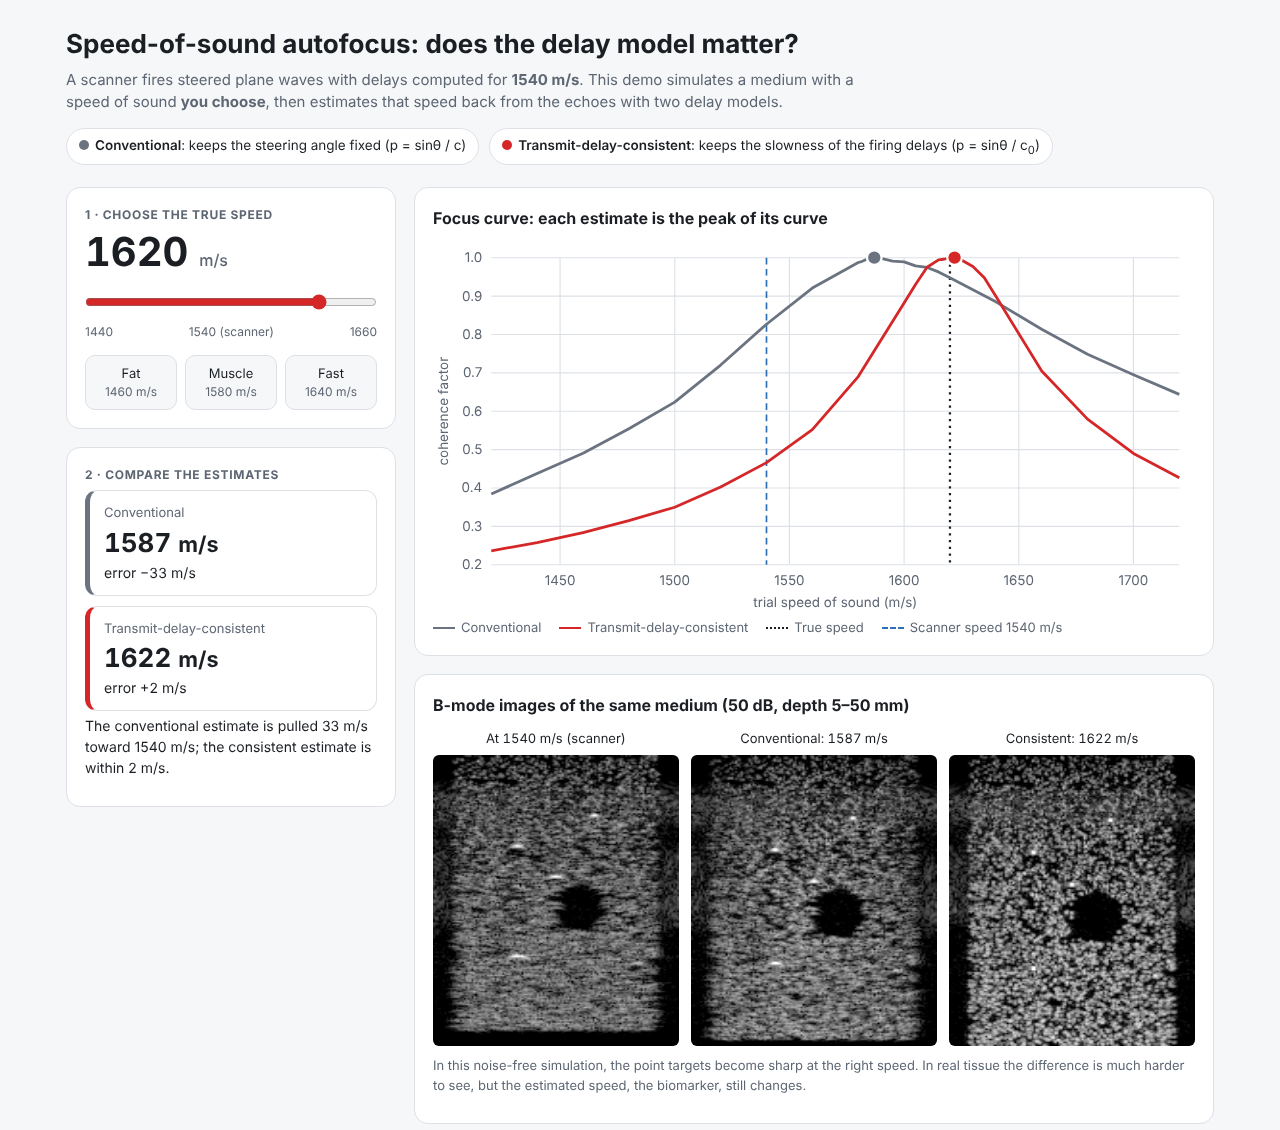
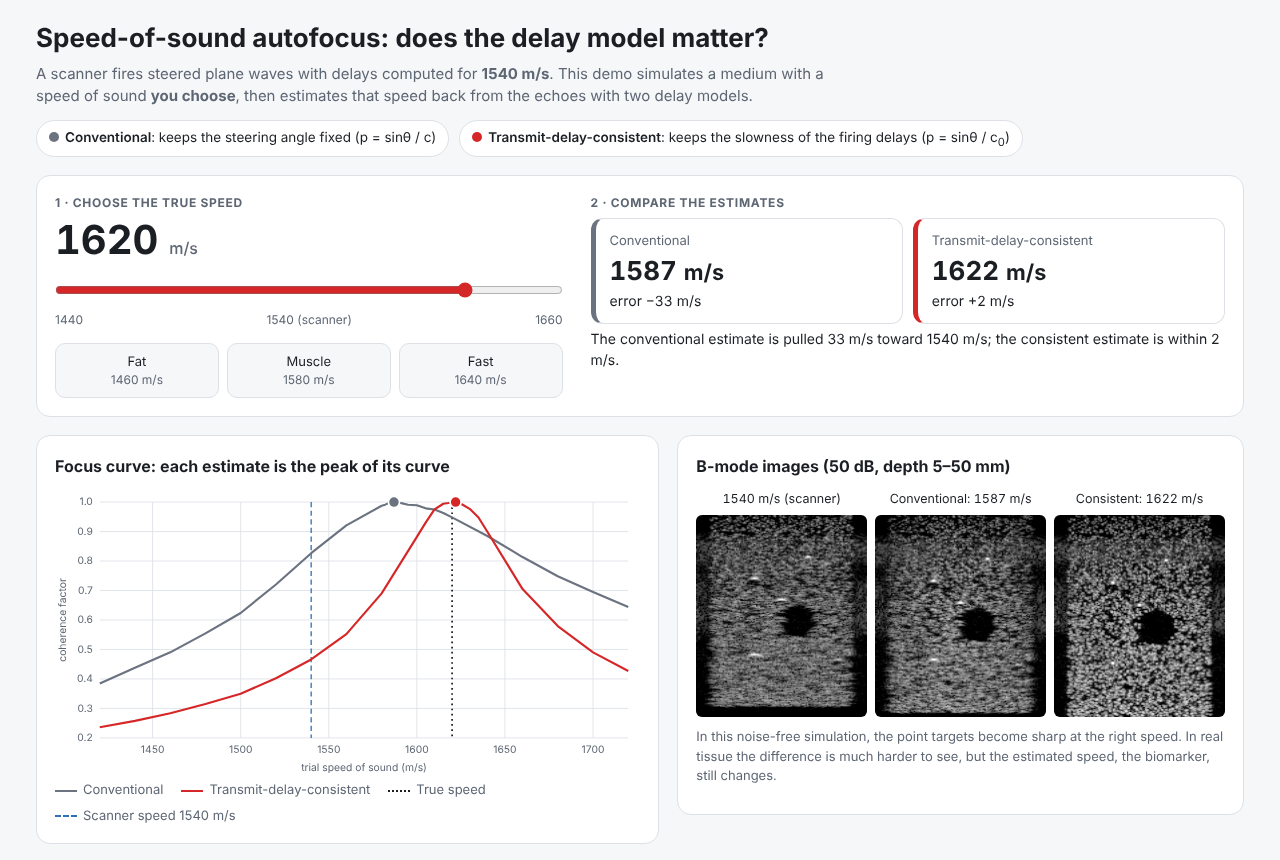
Refinement

diff --git a/demo/page_template.html b/demo/page_template.html
@@ -18,17 +18,19 @@
 * { box-sizing: border-box; }
 body { margin: 0; background: var(--bg); color: var(--ink);
   font: 15px/1.5 system-ui, -apple-system, "Segoe UI", Roboto, sans-serif; }
-.wrap { max-width: 1180px; margin: 0 auto; padding: 28px 16px 40px; }
+.wrap { max-width: 1240px; margin: 0 auto; padding: 22px 16px 40px; }
 h1 { font-size: 26px; line-height: 1.25; margin: 0 0 8px; }
 h2 { font-size: 16px; margin: 0 0 12px; }
 p { margin: 0 0 10px; }
 .lead { color: var(--muted); max-width: 820px; }
-.models { display: flex; gap: 10px; flex-wrap: wrap; margin: 14px 0 22px; }
+.models { display: flex; gap: 10px; flex-wrap: wrap; margin: 12px 0 18px; }
 .chip { border: 1px solid var(--line); background: var(--card); border-radius: 999px; padding: 6px 12px; font-size: 13.5px; }
 .chip b { font-weight: 600; }
 .dot { display: inline-block; width: 10px; height: 10px; border-radius: 50%; margin-right: 6px; vertical-align: 0; }
-.grid { display: grid; grid-template-columns: 330px 1fr; gap: 18px; }
-@media (max-width: 860px) { .grid { grid-template-columns: 1fr; } }
+.controls { display: grid; grid-template-columns: 1fr 1.25fr; gap: 28px; margin-bottom: 18px; }
+.controls .res { grid-template-columns: 1fr 1fr; }
+.grid { display: grid; grid-template-columns: 1.1fr 1fr; gap: 18px; align-items: start; }
+@media (max-width: 900px) { .grid, .controls, .controls .res { grid-template-columns: 1fr; } }
 .card { background: var(--card); border: 1px solid var(--line); border-radius: 14px; padding: 18px; }
 .stack { display: grid; gap: 18px; align-content: start; }
 .step { font-size: 12px; font-weight: 700; letter-spacing: .06em; text-transform: uppercase; color: var(--muted); margin-bottom: 6px; }
@@ -51,10 +53,10 @@ svg { width: 100%; height: auto; display: block; }
 svg text { fill: var(--muted); font-size: 12px; }
 .legend { display: flex; flex-wrap: wrap; gap: 6px 18px; font-size: 13px; color: var(--muted); margin-top: 6px; }
 .legend i { display: inline-block; width: 22px; height: 0; border-top: 2.5px solid; vertical-align: middle; margin-right: 6px; }
-.imgs { display: grid; grid-template-columns: repeat(3, 1fr); gap: 12px; }
+.imgs { display: grid; grid-template-columns: repeat(3, 1fr); gap: 8px; }
 .imgs figure { margin: 0; }
 .imgs img { width: 100%; aspect-ratio: 38 / 45; display: block; border-radius: 6px; background: #000; }
-.imgs figcaption { font-size: 13px; text-align: center; margin-bottom: 6px; font-variant-numeric: tabular-nums; }
+.imgs figcaption { font-size: 12.5px; text-align: center; margin-bottom: 6px; font-variant-numeric: tabular-nums; }
 .note { font-size: 13px; color: var(--muted); margin-top: 10px; }
 .explain { margin-top: 18px; }
 .explain ul { margin: 0; padding-left: 20px; }
@@ -74,52 +76,50 @@ a { color: var(--c0); }
     <div class="chip"><span class="dot" style="background:var(--cons)"></span><b>Transmit-delay-consistent</b>: keeps the slowness of the firing delays (p = sin&theta; / c<sub>0</sub>)</div>
   </div>
 
-  <div class="grid">
-    <div class="stack">
-      <div class="card">
-        <div class="step">1 · Choose the true speed</div>
-        <div class="speed"><span id="cv">1620</span> <small>m/s</small></div>
-        <input id="slider" type="range" min="1440" max="1660" step="10" value="1620" aria-label="True speed of sound (m/s)">
-        <div class="ticks"><span>1440</span><span>1540 (scanner)</span><span>1660</span></div>
-        <div class="presets">
-          <button data-c="1460">Fat<span>1460 m/s</span></button>
-          <button data-c="1580">Muscle<span>1580 m/s</span></button>
-          <button data-c="1640">Fast<span>1640 m/s</span></button>
-        </div>
-      </div>
-      <div class="card">
-        <div class="step">2 · Compare the estimates</div>
-        <div class="res">
-          <div class="stat" style="--c:var(--conv)"><div class="name">Conventional</div>
-            <div class="val"><span id="e_conv"></span> <small>m/s</small></div><div class="err" id="d_conv"></div></div>
-          <div class="stat" style="--c:var(--cons)"><div class="name">Transmit-delay-consistent</div>
-            <div class="val"><span id="e_cons"></span> <small>m/s</small></div><div class="err" id="d_cons"></div></div>
-        </div>
-        <p class="verdict" id="verdict"></p>
+  <div class="card controls">
+    <div>
+      <div class="step">1 · Choose the true speed</div>
+      <div class="speed"><span id="cv">1620</span> <small>m/s</small></div>
+      <input id="slider" type="range" min="1440" max="1660" step="10" value="1620" aria-label="True speed of sound (m/s)">
+      <div class="ticks"><span>1440</span><span>1540 (scanner)</span><span>1660</span></div>
+      <div class="presets">
+        <button data-c="1460">Fat<span>1460 m/s</span></button>
+        <button data-c="1580">Muscle<span>1580 m/s</span></button>
+        <button data-c="1640">Fast<span>1640 m/s</span></button>
       </div>
     </div>
+    <div>
+      <div class="step">2 · Compare the estimates</div>
+      <div class="res">
+        <div class="stat" style="--c:var(--conv)"><div class="name">Conventional</div>
+          <div class="val"><span id="e_conv"></span> <small>m/s</small></div><div class="err" id="d_conv"></div></div>
+        <div class="stat" style="--c:var(--cons)"><div class="name">Transmit-delay-consistent</div>
+          <div class="val"><span id="e_cons"></span> <small>m/s</small></div><div class="err" id="d_cons"></div></div>
+      </div>
+      <p class="verdict" id="verdict"></p>
+    </div>
+  </div>
 
-    <div class="stack">
-      <div class="card">
-        <h2>Focus curve: each estimate is the peak of its curve</h2>
-        <svg id="chart" viewBox="0 0 680 330" role="img" aria-label="Coherence factor against trial speed"></svg>
-        <div class="legend">
-          <span><i style="border-color:var(--conv)"></i>Conventional</span>
-          <span><i style="border-color:var(--cons)"></i>Transmit-delay-consistent</span>
-          <span><i style="border-color:var(--true);border-top-style:dotted"></i>True speed</span>
-          <span><i style="border-color:var(--c0);border-top-style:dashed"></i>Scanner speed 1540 m/s</span>
-        </div>
+  <div class="grid">
+    <div class="card">
+      <h2>Focus curve: each estimate is the peak of its curve</h2>
+      <svg id="chart" viewBox="0 0 680 330" role="img" aria-label="Coherence factor against trial speed"></svg>
+      <div class="legend">
+        <span><i style="border-color:var(--conv)"></i>Conventional</span>
+        <span><i style="border-color:var(--cons)"></i>Transmit-delay-consistent</span>
+        <span><i style="border-color:var(--true);border-top-style:dotted"></i>True speed</span>
+        <span><i style="border-color:var(--c0);border-top-style:dashed"></i>Scanner speed 1540 m/s</span>
       </div>
-      <div class="card">
-        <h2>B-mode images of the same medium (50 dB, depth 5–50 mm)</h2>
-        <div class="imgs">
-          <figure><figcaption>At 1540 m/s (scanner)</figcaption><img id="i0" alt="Image at 1540 m/s"></figure>
-          <figure><figcaption id="c1"></figcaption><img id="i1" alt="Image at the conventional estimate"></figure>
-          <figure><figcaption id="c2"></figcaption><img id="i2" alt="Image at the consistent estimate"></figure>
-        </div>
-        <p class="note">In this noise-free simulation, the point targets become sharp at the right speed. In real tissue
-          the difference is much harder to see, but the estimated speed, the biomarker, still changes.</p>
+    </div>
+    <div class="card">
+      <h2>B-mode images (50 dB, depth 5–50 mm)</h2>
+      <div class="imgs">
+        <figure><figcaption>1540 m/s (scanner)</figcaption><img id="i0" alt="Image at 1540 m/s"></figure>
+        <figure><figcaption id="c1"></figcaption><img id="i1" alt="Image at the conventional estimate"></figure>
+        <figure><figcaption id="c2"></figcaption><img id="i2" alt="Image at the consistent estimate"></figure>
       </div>
+      <p class="note">In this noise-free simulation, the point targets become sharp at the right speed. In real tissue
+        the difference is much harder to see, but the estimated speed, the biomarker, still changes.</p>
     </div>
   </div>
 

diff --git a/docs/index.html b/docs/index.html
@@ -18,17 +18,19 @@
 * { box-sizing: border-box; }
 body { margin: 0; background: var(--bg); color: var(--ink);
   font: 15px/1.5 system-ui, -apple-system, "Segoe UI", Roboto, sans-serif; }
-.wrap { max-width: 1180px; margin: 0 auto; padding: 28px 16px 40px; }
+.wrap { max-width: 1240px; margin: 0 auto; padding: 22px 16px 40px; }
 h1 { font-size: 26px; line-height: 1.25; margin: 0 0 8px; }
 h2 { font-size: 16px; margin: 0 0 12px; }
 p { margin: 0 0 10px; }
 .lead { color: var(--muted); max-width: 820px; }
-.models { display: flex; gap: 10px; flex-wrap: wrap; margin: 14px 0 22px; }
+.models { display: flex; gap: 10px; flex-wrap: wrap; margin: 12px 0 18px; }
 .chip { border: 1px solid var(--line); background: var(--card); border-radius: 999px; padding: 6px 12px; font-size: 13.5px; }
 .chip b { font-weight: 600; }
 .dot { display: inline-block; width: 10px; height: 10px; border-radius: 50%; margin-right: 6px; vertical-align: 0; }
-.grid { display: grid; grid-template-columns: 330px 1fr; gap: 18px; }
-@media (max-width: 860px) { .grid { grid-template-columns: 1fr; } }
+.controls { display: grid; grid-template-columns: 1fr 1.25fr; gap: 28px; margin-bottom: 18px; }
+.controls .res { grid-template-columns: 1fr 1fr; }
+.grid { display: grid; grid-template-columns: 1.1fr 1fr; gap: 18px; align-items: start; }
+@media (max-width: 900px) { .grid, .controls, .controls .res { grid-template-columns: 1fr; } }
 .card { background: var(--card); border: 1px solid var(--line); border-radius: 14px; padding: 18px; }
 .stack { display: grid; gap: 18px; align-content: start; }
 .step { font-size: 12px; font-weight: 700; letter-spacing: .06em; text-transform: uppercase; color: var(--muted); margin-bottom: 6px; }
@@ -51,10 +53,10 @@ svg { width: 100%; height: auto; display: block; }
 svg text { fill: var(--muted); font-size: 12px; }
 .legend { display: flex; flex-wrap: wrap; gap: 6px 18px; font-size: 13px; color: var(--muted); margin-top: 6px; }
 .legend i { display: inline-block; width: 22px; height: 0; border-top: 2.5px solid; vertical-align: middle; margin-right: 6px; }
-.imgs { display: grid; grid-template-columns: repeat(3, 1fr); gap: 12px; }
+.imgs { display: grid; grid-template-columns: repeat(3, 1fr); gap: 8px; }
 .imgs figure { margin: 0; }
 .imgs img { width: 100%; aspect-ratio: 38 / 45; display: block; border-radius: 6px; background: #000; }
-.imgs figcaption { font-size: 13px; text-align: center; margin-bottom: 6px; font-variant-numeric: tabular-nums; }
+.imgs figcaption { font-size: 12.5px; text-align: center; margin-bottom: 6px; font-variant-numeric: tabular-nums; }
 .note { font-size: 13px; color: var(--muted); margin-top: 10px; }
 .explain { margin-top: 18px; }
 .explain ul { margin: 0; padding-left: 20px; }
@@ -74,52 +76,50 @@ a { color: var(--c0); }
     <div class="chip"><span class="dot" style="background:var(--cons)"></span><b>Transmit-delay-consistent</b>: keeps the slowness of the firing delays (p = sin&theta; / c<sub>0</sub>)</div>
   </div>
 
-  <div class="grid">
-    <div class="stack">
-      <div class="card">
-        <div class="step">1 · Choose the true speed</div>
-        <div class="speed"><span id="cv">1620</span> <small>m/s</small></div>
-        <input id="slider" type="range" min="1440" max="1660" step="10" value="1620" aria-label="True speed of sound (m/s)">
-        <div class="ticks"><span>1440</span><span>1540 (scanner)</span><span>1660</span></div>
-        <div class="presets">
-          <button data-c="1460">Fat<span>1460 m/s</span></button>
-          <button data-c="1580">Muscle<span>1580 m/s</span></button>
-          <button data-c="1640">Fast<span>1640 m/s</span></button>
-        </div>
-      </div>
-      <div class="card">
-        <div class="step">2 · Compare the estimates</div>
-        <div class="res">
-          <div class="stat" style="--c:var(--conv)"><div class="name">Conventional</div>
-            <div class="val"><span id="e_conv"></span> <small>m/s</small></div><div class="err" id="d_conv"></div></div>
-          <div class="stat" style="--c:var(--cons)"><div class="name">Transmit-delay-consistent</div>
-            <div class="val"><span id="e_cons"></span> <small>m/s</small></div><div class="err" id="d_cons"></div></div>
-        </div>
-        <p class="verdict" id="verdict"></p>
+  <div class="card controls">
+    <div>
+      <div class="step">1 · Choose the true speed</div>
+      <div class="speed"><span id="cv">1620</span> <small>m/s</small></div>
+      <input id="slider" type="range" min="1440" max="1660" step="10" value="1620" aria-label="True speed of sound (m/s)">
+      <div class="ticks"><span>1440</span><span>1540 (scanner)</span><span>1660</span></div>
+      <div class="presets">
+        <button data-c="1460">Fat<span>1460 m/s</span></button>
+        <button data-c="1580">Muscle<span>1580 m/s</span></button>
+        <button data-c="1640">Fast<span>1640 m/s</span></button>
       </div>
     </div>
+    <div>
+      <div class="step">2 · Compare the estimates</div>
+      <div class="res">
+        <div class="stat" style="--c:var(--conv)"><div class="name">Conventional</div>
+          <div class="val"><span id="e_conv"></span> <small>m/s</small></div><div class="err" id="d_conv"></div></div>
+        <div class="stat" style="--c:var(--cons)"><div class="name">Transmit-delay-consistent</div>
+          <div class="val"><span id="e_cons"></span> <small>m/s</small></div><div class="err" id="d_cons"></div></div>
+      </div>
+      <p class="verdict" id="verdict"></p>
+    </div>
+  </div>
 
-    <div class="stack">
-      <div class="card">
-        <h2>Focus curve: each estimate is the peak of its curve</h2>
-        <svg id="chart" viewBox="0 0 680 330" role="img" aria-label="Coherence factor against trial speed"></svg>
-        <div class="legend">
-          <span><i style="border-color:var(--conv)"></i>Conventional</span>
-          <span><i style="border-color:var(--cons)"></i>Transmit-delay-consistent</span>
-          <span><i style="border-color:var(--true);border-top-style:dotted"></i>True speed</span>
-          <span><i style="border-color:var(--c0);border-top-style:dashed"></i>Scanner speed 1540 m/s</span>
-        </div>
+  <div class="grid">
+    <div class="card">
+      <h2>Focus curve: each estimate is the peak of its curve</h2>
+      <svg id="chart" viewBox="0 0 680 330" role="img" aria-label="Coherence factor against trial speed"></svg>
+      <div class="legend">
+        <span><i style="border-color:var(--conv)"></i>Conventional</span>
+        <span><i style="border-color:var(--cons)"></i>Transmit-delay-consistent</span>
+        <span><i style="border-color:var(--true);border-top-style:dotted"></i>True speed</span>
+        <span><i style="border-color:var(--c0);border-top-style:dashed"></i>Scanner speed 1540 m/s</span>
       </div>
-      <div class="card">
-        <h2>B-mode images of the same medium (50 dB, depth 5–50 mm)</h2>
-        <div class="imgs">
-          <figure><figcaption>At 1540 m/s (scanner)</figcaption><img id="i0" alt="Image at 1540 m/s"></figure>
-          <figure><figcaption id="c1"></figcaption><img id="i1" alt="Image at the conventional estimate"></figure>
-          <figure><figcaption id="c2"></figcaption><img id="i2" alt="Image at the consistent estimate"></figure>
-        </div>
-        <p class="note">In this noise-free simulation, the point targets become sharp at the right speed. In real tissue
-          the difference is much harder to see, but the estimated speed, the biomarker, still changes.</p>
+    </div>
+    <div class="card">
+      <h2>B-mode images (50 dB, depth 5–50 mm)</h2>
+      <div class="imgs">
+        <figure><figcaption>1540 m/s (scanner)</figcaption><img id="i0" alt="Image at 1540 m/s"></figure>
+        <figure><figcaption id="c1"></figcaption><img id="i1" alt="Image at the conventional estimate"></figure>
+        <figure><figcaption id="c2"></figcaption><img id="i2" alt="Image at the consistent estimate"></figure>
       </div>
+      <p class="note">In this noise-free simulation, the point targets become sharp at the right speed. In real tissue
+        the difference is much harder to see, but the estimated speed, the biomarker, still changes.</p>
     </div>
   </div>
 
